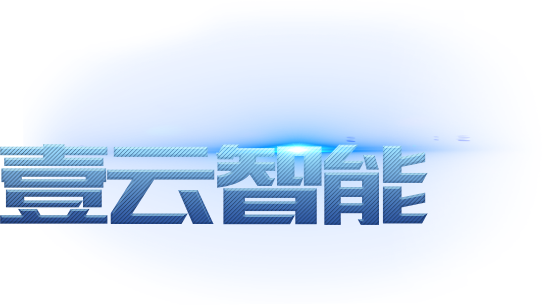
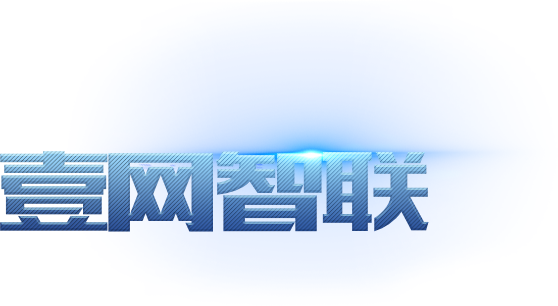
merge

Changed region(s): [[0.0, 0.3836, 0.8561, 0.7672]]

diff --git a/src/views/web/us/index.vue b/src/views/web/us/index.vue
@@ -10,7 +10,7 @@
       <img :src="require('../assets/img/title/title_guanyuwomen.png')" />
     </div>
     <div class="title-h1-content">
-      <p>深圳市壹云智能科技有限公司，由一群来自通信、物联网、互联网行业，都心怀万物互联的美好愿望，而汇聚在一起的年轻人。大家在一起以后碰撞出了“万物归一，云控天下”的豪言壮志，于2016年7月，位于中国深圳市南山区波顿科技园，成立公司。公司致力于物联网通讯模版以及整体解决方案设计，研发，生产与销售，为客户提供定制化云服务管理后台；对于用户的互联网运营，帮助传统行业实现物联网+智能转型升级；公司秉承“客户第一，质量稳定，技术领先，人才汇聚”的经营理念。</p>
+      <p>深圳市壹网智联科技有限公司，由一群来自通信、物联网、互联网行业，都心怀万物互联的美好愿望，而汇聚在一起的年轻人。大家碰撞出了“智联万物，合创未来”的豪言壮志，于2018年7月，位于中国深圳市南山区波顿科技园，成立公司。公司致力于物联网通讯模版以及整体解决方案设计，研发，生产与销售，为客户提供定制化云服务管理后台；对于用户的互联网运营，帮助传统行业实现物联网+智能转型升级；公司秉承“客户第一，质量稳定，技术领先，人才汇聚”的经营理念。</p>
       <p>公司汇聚移动通讯，互联网+，物联网三个领域行业精英与技术专家，组成了拥有丰富实战经验的研发团队。用户体验至上理念的技术开发团队。并且打造出了千万级用户，大接入高并发快速响应的服务平台。并且带来了传统消费来电子产品全国各省传统销售渠道以及上下游供应链资源。对于用户价值的挖掘也有自己深刻的理解。公司全体一致贯彻公司的经营理念及做事原则，从市场调研到售后服务过程中的每一个环节，快速响应客户的要求，提供客户满意的产品，极力协助客户商业的成功。公司成立以来先后在智慧交通，智慧家庭，智慧医疗，智慧工业等领域做出了成绩，树立了良好的行业口碑。</p>
     </div>
     <div class="house-outer">
